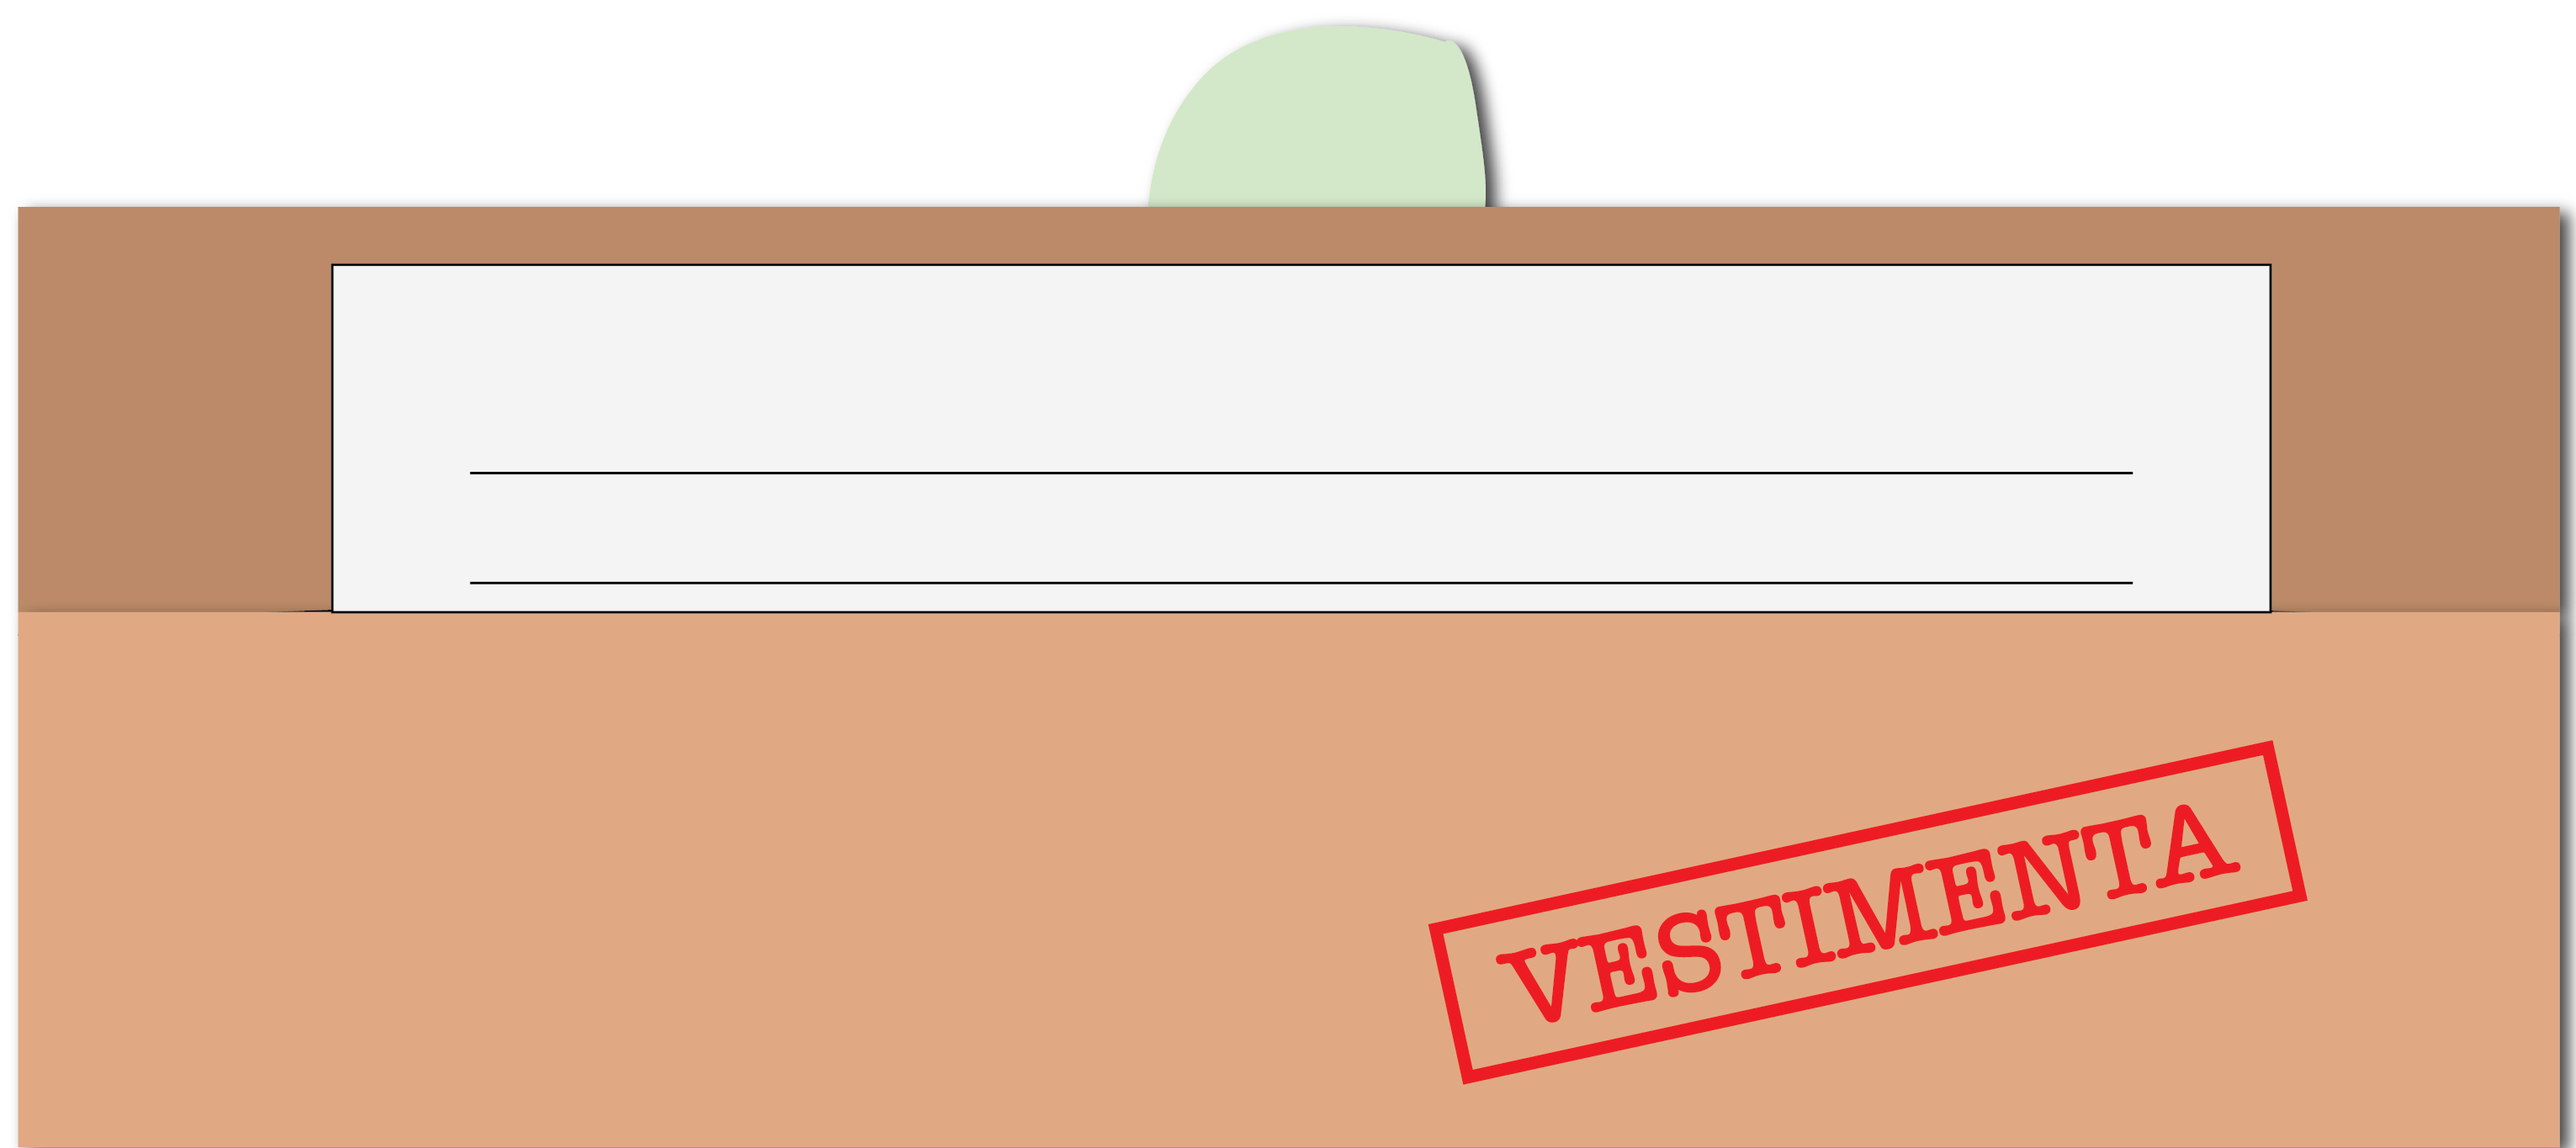
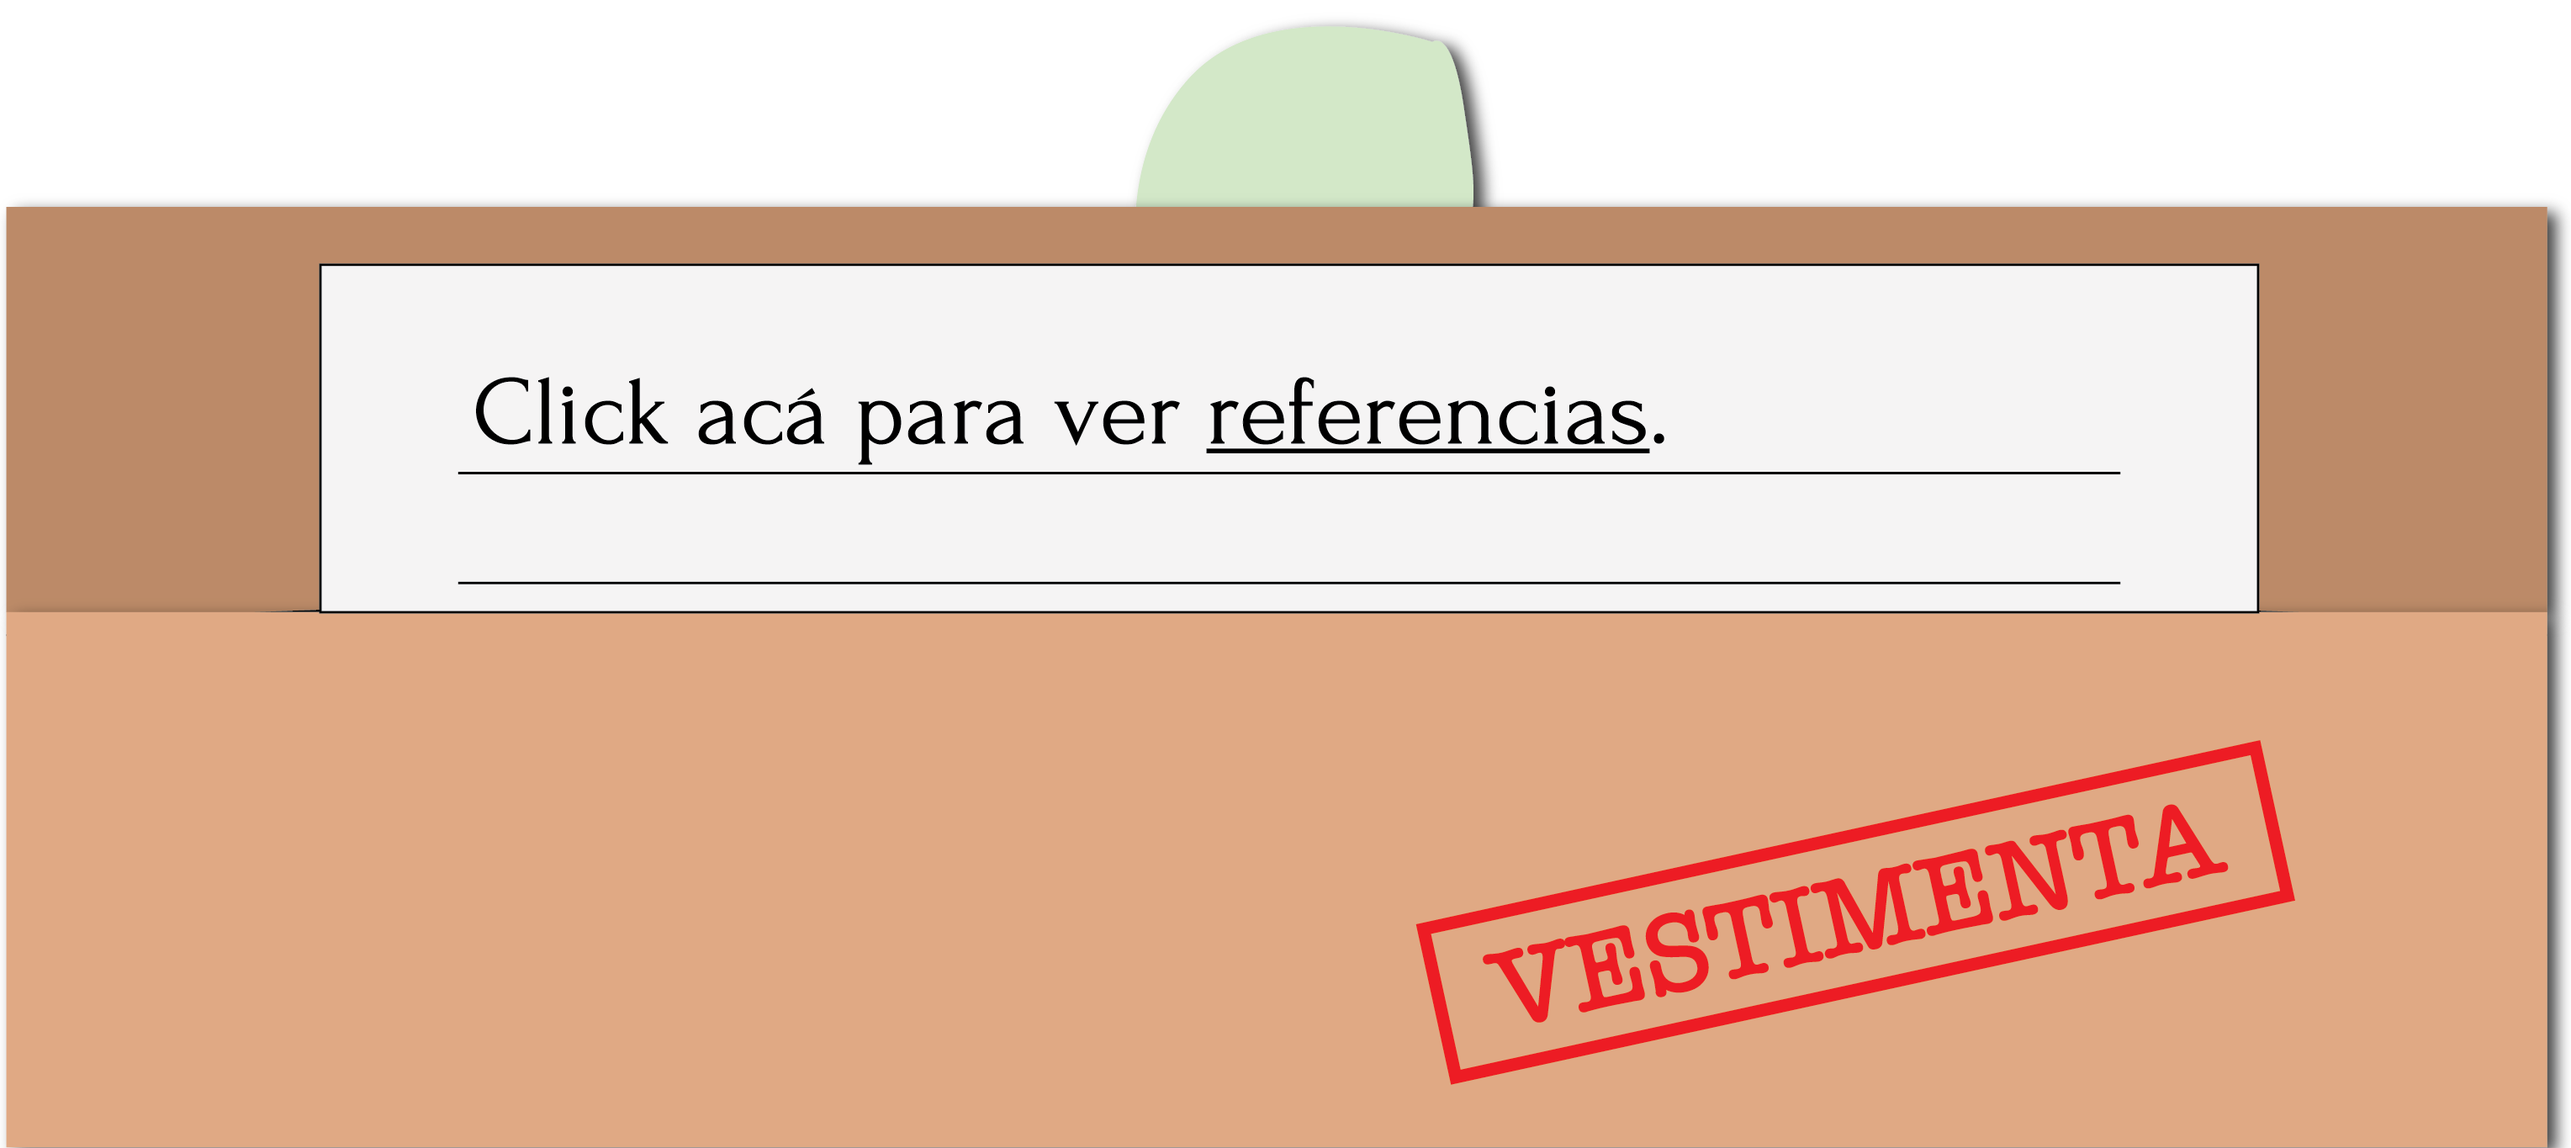
quick fix

diff --git a/style.css b/style.css
@@ -86,21 +86,13 @@ body {
     margin-top: 2rem;
 }
 .sobre {
-    width: 800px;
-    height: 500px;
+    width: 50%;
+    height: 50%;
     display: none;
 }
 .sobre img {
     width: 100%;
     height: 100%;
-}
-.sobre p {
-    color: red;
-    position: relative;
-    top: 40%;
-    left: 25%;
-    font-size: 1.6rem;
-    font-weight: bold;
 }
 .sobre:hover {
     cursor: pointer;
@@ -115,7 +107,18 @@ body {
 @media (max-width: 1200px) {
     .background {
         flex-direction: row;
+        justify-content: space-between;
         padding: 0 10%;
+    }
+    .sobre {
+        height: 100%;
+    }
+    .sobre img{
+        width: 100%;
+        height: 70vh;
+        max-height: 400px;
+        min-width: 500px;
+        align-self: flex-end;
     }
 }
 @media (max-width: 700px) {
@@ -124,10 +127,13 @@ body {
     }
     .sobre {
         width: 100vw;
-        height: 60vw;
+        height: 40vw;
+        min-height: 250px;
     }
-    .sobre p {
-        font-size: 1rem;
+    .sobre img {
+        min-width: 0;
+        width: 100%;
+        height: 100%;
     }
 }
 /*

diff --git a/script.js b/script.js
@@ -177,7 +177,6 @@ function startFadeout() {
     setTimeout(() => {
       document.getElementById("Player").style.display = "block";
       Intro.style.display = "none";
-      Player.playVideo();
     }, 1000 * 0.5);
     Intro.classList.toggle("fade");
   }, 1000 * 1);
@@ -214,7 +213,7 @@ function onPlayerStateChange(event) {
       event.target.destroy();
       setScene();
       if (STATE === 5) {
-        Sobre.style.display = "block";
+        Sobre.style.display = "flex";
         Scenes["DomChoose"].style.justifyContent = "space-between";
         ContenedorOpcion.style.paddingTop = "2rem";
       }

diff --git a/index.html b/index.html
@@ -33,7 +33,6 @@
                 Mercado Pago</p>
         </div>
         <div class="sobre" id="sobre">
-            <p>Click acá para ver referencias</p>
             <img src="./assets/Sobre referencias.png" alt="Sobre con referencias">
         </div>
     </div>
